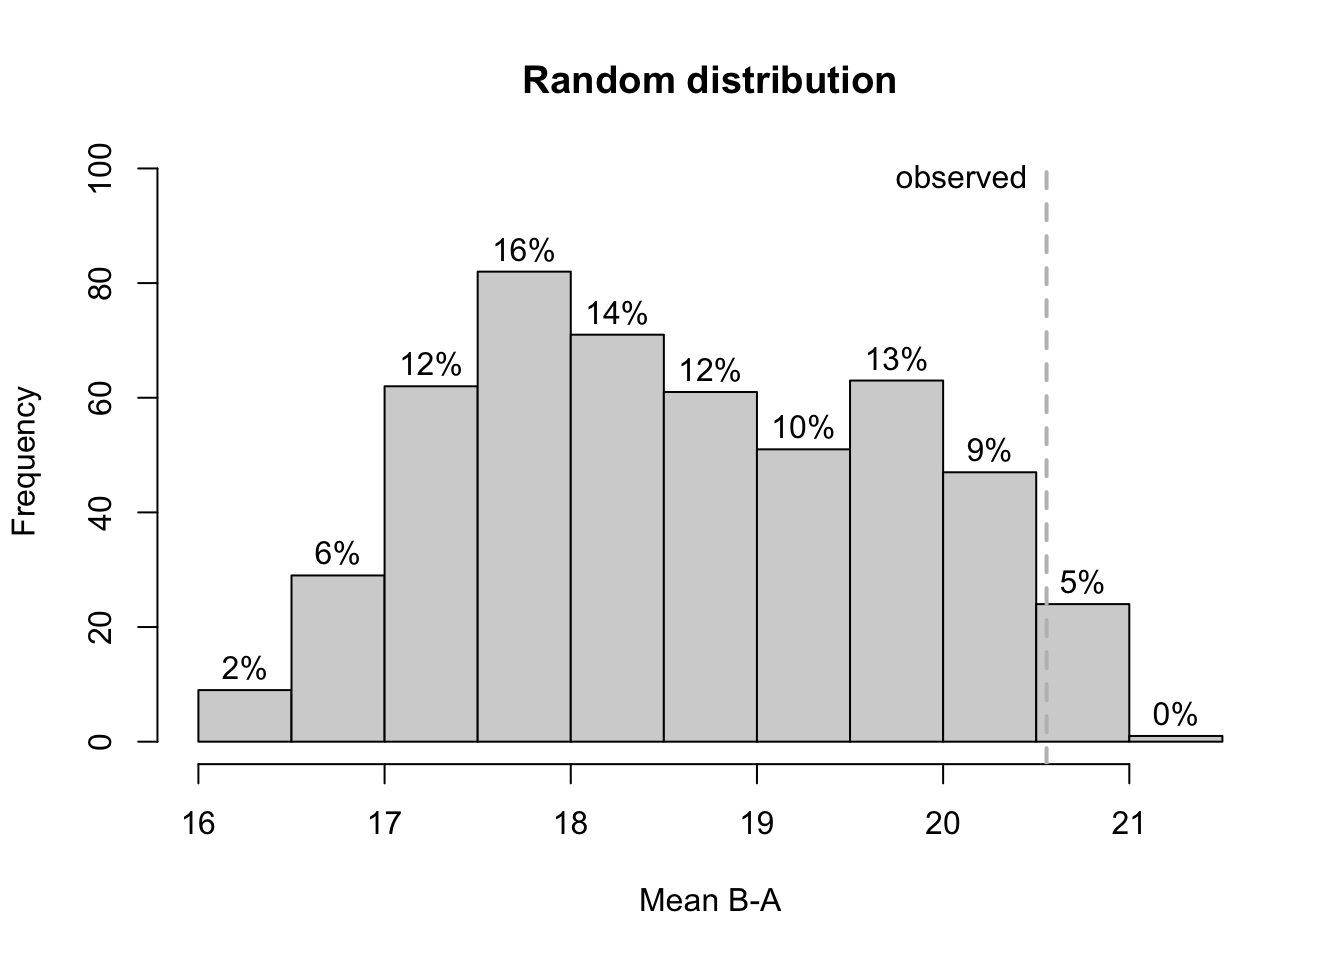
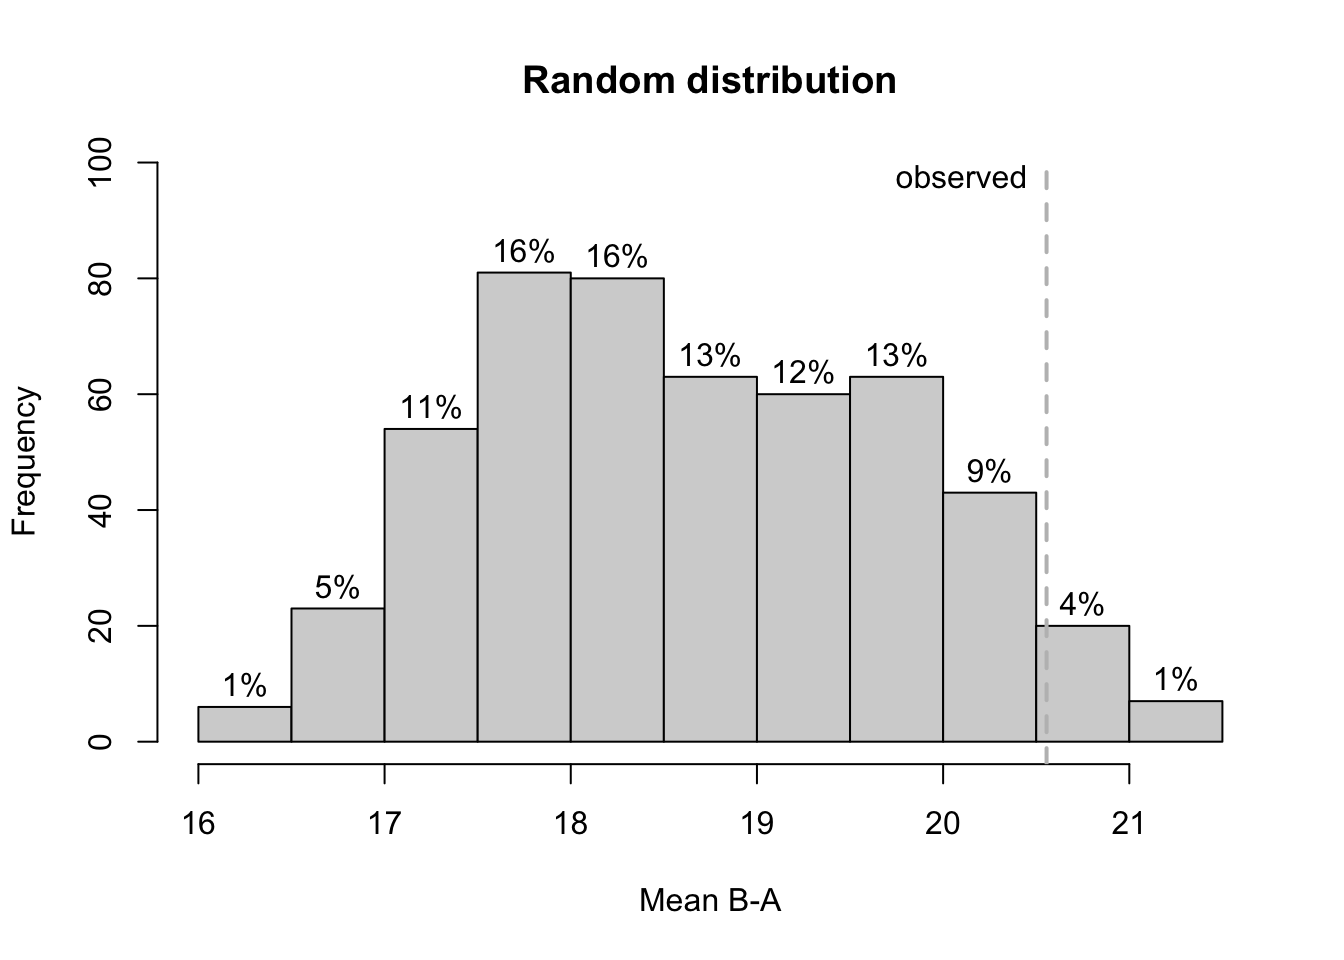
upd

diff --git a/docs/ch_piecewise_regression.html b/docs/ch_piecewise_regression.html
@@ -354,7 +354,7 @@ div.csl-indent {
   <li><a href="#the-slope-level-and-trend-arguments" id="toc-the-slope-level-and-trend-arguments" class="nav-link" data-scroll-target="#the-slope-level-and-trend-arguments"><span class="header-section-number">9.2.1</span> The <code>slope</code>, <code>level</code>, and <code>trend</code> arguments</a></li>
   </ul></li>
   <li><a href="#adding-additional-predictors" id="toc-adding-additional-predictors" class="nav-link" data-scroll-target="#adding-additional-predictors"><span class="header-section-number">9.3</span> Adding additional predictors</a></li>
-  <li><a href="#dummy-models" id="toc-dummy-models" class="nav-link" data-scroll-target="#dummy-models"><span class="header-section-number">9.4</span> Dummy models</a></li>
+  <li><a href="#sec-dummy-model" id="toc-sec-dummy-model" class="nav-link" data-scroll-target="#sec-dummy-model"><span class="header-section-number">9.4</span> Dummy models</a></li>
   <li><a href="#designs-with-more-than-two-phases-setting-the-right-contrasts" id="toc-designs-with-more-than-two-phases-setting-the-right-contrasts" class="nav-link" data-scroll-target="#designs-with-more-than-two-phases-setting-the-right-contrasts"><span class="header-section-number">9.5</span> Designs with more than two phases: Setting the right contrasts</a></li>
   <li><a href="#understanding-and-interpreting-contrasts" id="toc-understanding-and-interpreting-contrasts" class="nav-link" data-scroll-target="#understanding-and-interpreting-contrasts"><span class="header-section-number">9.6</span> Understanding and interpreting contrasts</a>
   <ul class="collapse">
@@ -477,8 +477,8 @@ Formula: values ~ 1 + mt + phaseB + interB</code></pre>
 </div>
 </div>
 <p>The output shows the specific contrast settings for the phase and slope calculation (see below for a detailed explanation). Next, the overall model fit is provided. In this specific example the model fit is quite high explaining more than 80% of the variance of the dependent variable. The following regression table shows the unstandardised estimates (B), the lower and upper boundaries of a 95% confidence interval, the standard-error, the t-test statistic, the p-value, and the delta R squared for each predictor.</p>
-<p>In this example, the intercept is the score estimation at the beginning of the study (here: at the first session, see <a href="#fig-plm-ex-1">Figure&nbsp;<span>9.2</span></a>). The trend effect (variable mt) is 0.100. That is, the score increased 0.100 with each measurement-time. As this example has a total of 20 measurements, the overall increase due to the trend is <span class="math inline">\(19 * 0.100 = 1.9\)</span> points. The level effect (variable phase with level B) is 7.858. That is, all measurements of phase B are increase by 7.858 points. The slope effect (for phase B) is 1.525. That is, with each measurement following the first measurement of phase B, the score increases by 1.525. As this example has 15 phase B measurements, the total increase due to the slope Effect is <span class="math inline">\(14 * 1.525 = 21.35\)</span> points.</p>
-<p>Based on these values, each data-point can be estimated. For example, the last measurement (<span class="math inline">\(i=20\)</span>) is estimated with <span class="math inline">\(54.400 + 19 * 0.100 + 7.858 + 14 * 1.525 = 85.508\)</span>.</p>
+<p>In this example, the intercept is the score estimation at the beginning of the study (here: at the first session, see <a href="#fig-plm-ex-1">Figure&nbsp;<span>9.2</span></a>). The trend effect (variable <em>mt</em>) is 0.100. This means that for every one point increase in measurement-time, the score increased by 0.100. As this example has a total of 20 sessions, the overall increase due to the trend is <span class="math inline">\(19 * 0.100 = 1.9\)</span> points. The level effect (variable <em>phase</em> with level B) is 7.858. This means that all scores of phase B are increased by 7.858 points. The slope effect (for phase B) is 1.525. This means that for every one point increase in measurement time after the first phase B session, the score increases by 1.525. As there are 15 Phase B sessions in this example, the total increase due to the slope effect is <span class="math inline">\(14 * 1.525 = 21.35\)</span> points.</p>
+<p>From these values each data point can be estimated. For example, the last session (<span class="math inline">\(i=20\)</span>) is estimated to be <span class="math inline">\(54.400 + 19 * 0.100 + 7.858 + 14 * 1.525 = 85.508\)</span>.</p>
 <div class="cell">
 <div class="sourceCode cell-code" id="cb3"><pre class="sourceCode r code-with-copy"><code class="sourceCode r"><span id="cb3-1"><a href="#cb3-1" aria-hidden="true" tabindex="-1"></a><span class="fu">scplot</span>(exampleAB<span class="sc">$</span>Johanna) <span class="sc">|&gt;</span> <span class="fu">add_statline</span>(<span class="st">"trend"</span>)</span></code><button title="Copy to Clipboard" class="code-copy-button"><i class="bi"></i></button></pre></div>
 <div class="cell-output-display">
@@ -555,7 +555,7 @@ Autocorrelations of the residuals
 Formula: values ~ 1 + mt + phaseB</code></pre>
 </div>
 </div>
-<p>In the resulting estimations the trend and level effects are now significant. The model estimated a trend effect of 1.01 points per measurement time and a level effect of 10.33 points. That is, with the beginning of the intervention (the B-phase) the score increases by 15.38 points (5 x 1.01 + 10.33).</p>
+<p>In the resulting estimations the trend and level effects are now significant. The model estimated a trend effect of 1.01 points for every one point increase in measurement-time and a level effect of 10.33 points. That is, with the beginning of the intervention (the B-phase) the score increases by <span class="math inline">\(5 x 1.01 + 10.33 = 15.38\)</span> points (the measurement-time is increases by five, from one to six, at the first session of phase B).</p>
 </section>
 </section>
 <section id="adding-additional-predictors" class="level2" data-number="9.3">
@@ -599,8 +599,8 @@ The formula has two parts divided by a tilde. Left of the tilde is the variable 
 
 -->
 </section>
-<section id="dummy-models" class="level2" data-number="9.4">
-<h2 data-number="9.4" class="anchored" data-anchor-id="dummy-models"><span class="header-section-number">9.4</span> Dummy models</h2>
+<section id="sec-dummy-model" class="level2" data-number="9.4">
+<h2 data-number="9.4" class="anchored" data-anchor-id="sec-dummy-model"><span class="header-section-number">9.4</span> Dummy models</h2>
 <p>The <code>model</code> argument is used to code the <em>dummy variables</em>. These <em>dummy variables</em> are used to compute the slope and level effects of the <em>phase</em> variable.<br>
 The <em>phase</em> variable is categorical, identifying the phase of each measurement. Typically, categorical variables are implemented by means of dummy variables. In a piecewise regression model two phase effects have to be estimated: a level effect and a slope effect. The level effect is implemented quite straight forward: for each phase beginning with the second phase a new dummy variable is created with values of zero for all measurements except the measurements of the phase in focus where values of one are set.</p>
 <div class="cell">
@@ -676,7 +676,7 @@ The <em>phase</em> variable is categorical, identifying the phase of each measur
 </div>
 </div>
 <p>For estimating the <em>slope effect</em> of each phase, another kind of dummy variables have to be created. Like the dummy variables for level effects the values are set to zero for all measurements except the ones of the phase in focus. Here, values start to increase with every measurement until the end of the phase.<br>
-Various suggestions have been made regarding the way in which these values increase <span class="citation" data-cites="huitema_design_2000">(see <a href="references.html#ref-huitema_design_2000" role="doc-biblioref">Huitema &amp; Mckean, 2000</a>)</span>. The <em>B&amp;L-B</em> model starts with a one at the first measurement of the phase and increases with every measurement while the <em>H-M</em> model starts with a zero.</p>
+Various suggestions have been made regarding the way in which these values increase <span class="citation" data-cites="huitema_design_2000">(see <a href="references.html#ref-huitema_design_2000" role="doc-biblioref">Huitema &amp; Mckean, 2000</a>)</span>. The <em>B&amp;L-B</em> model starts with a one at the first session of the phase and increases with every session while the <em>H-M</em> model starts with a zero.</p>
 <div class="cell">
 <div class="cell-output-display">
 <table class="lightable-classic table table-sm table-striped small" data-quarto-postprocess="true">
@@ -783,8 +783,8 @@ slope B
 
 </div>
 </div>
-<p>Applying the <em>H-M</em> model will give you a “pure” level-effect while the <em>B&amp;L-B</em> model will provide an estimation of the level-effect that is actually the level-effect plus on times the slope-effect (as the the model assumes that the slope variable is <em>1</em> at the first measurement of the B-phase). For most studies, the <em>H-M</em> model is more appropriate.</p>
-<p>Still, we have to be aware of another aspect. Usually, measurement-times in single-case designs are coded as starting with <em>1</em> and increasing in integers (e.g., 1, 2, 3, …). At the same time, the estimation of the trend-effect is based on the measurement-time variable. In that case, the estimation of the model intercept (usually interpreted as the value at the start of the study) actually depicts the estimation of the start value plus one times the trend-effect. Therefore, I implemented the <em>W</em> model (since scan version <code>0.54.4</code>). Here, the trend-effect is estimated for a measurement-time variable that starts with <em>0</em>. As a result the intercept will then represent the estimated value at the first measurement fo the study. The <em>W</em> model handles the slope estimation the same way as the <em>H-M</em> model. Since scan version <code>0.54.4</code> the <em>W</em> model is the default.</p>
+<p>Applying the <em>H-M</em> model will give you a “pure” level-effect while the <em>B&amp;L-B</em> model will provide an estimation of the level-effect that is actually the level-effect plus on times the slope-effect (as the model assumes that the slope variable is <em>1</em> at the first measurement of the B-phase). For most studies, the <em>H-M</em> model is more appropriate.</p>
+<p>However, there is another aspect to be aware of. Usually, in single case designs, the measurement times are coded as starting with <em>1</em> and increasing in integers (1, 2, 3, …). At the same time, the estimation of the trend effect is based on the measurement time variable. In this case, the estimate of the model intercept (usually interpreted as the value at the beginning of the study) actually represents the estimate of the starting value plus one times the trend effect. Therefore, I have implemented the <em>W</em> model (since scan version <code>0.54.4</code>). Here the trend effect is estimated for a time variable shifted to start at <em>0</em>. As a result, the intercept represents the estimated value at the first measurement of the study. The <em>W</em> model treats slope estimation in the same way as the <em>H-M</em> model. That is, the measurement-time for calculating the slope effect is set to <em>0</em> for the first session of each phase. Since scan version <code>0.54.4</code> the <em>W</em> model is the default.</p>
 <div class="cell">
 <div class="cell-output-display">
 <table class="lightable-classic table table-sm table-striped small" data-quarto-postprocess="true">
@@ -908,9 +908,9 @@ slope
 </section>
 <section id="designs-with-more-than-two-phases-setting-the-right-contrasts" class="level2" data-number="9.5">
 <h2 data-number="9.5" class="anchored" data-anchor-id="designs-with-more-than-two-phases-setting-the-right-contrasts"><span class="header-section-number">9.5</span> Designs with more than two phases: Setting the right contrasts</h2>
-<p>With single-case studies with more than two phases it gets a bit more complicated. Applying the models described above to three phases would result in a comparison between each phase and the first phase (usually phase A). That is, the regression weights and significance tests indicate the differences between each phase and the phase A values. Another common use is to compare the effects of one phase with the preceding phase.</p>
-<p>Since scan version <code>0.54.4</code> plm allows to set a contrast argument. <code>contrast = "first"</code> (the default) will compare all slope and level-effects to the values in the first phase. <code>contrast = "preceding"</code> will compare the slope and level-effects to the preceding phase.</p>
-<p>For the <em>preceding contrast</em>, the dummy variable for the level-effect is set to zero for all phases preceding the phase in focus and set to one for all remaining measurements. Similar, the dummy variable for the slope-effect is set to zero for all phases preceding the one in focus and starts with one for the first measurement of the target phase and increases until the last measurement of the case.</p>
+<p>For single case studies with more than two phases, things get a bit more complicated. Applying the models described above to three phases would result in a comparison between each phase and the first phase (usually phase A). That is, the regression weights and significance tests indicate the differences between each phase and the values from phase A. Another common use is to compare the effects of a phase with the previous phase.</p>
+<p>As of scan version <code>0.54.4</code>, plm allows to set a contrast argument. <code>contrast = "first"</code> (the default) will compare all slope and level-effects to the values in the first phase. <code>contrast = "preceding"</code> will compare the slope and level-effects to the preceding phase.</p>
+<p>For the <em>preceding contrast</em>, the dummy variable for the level-effect is set to zero for all phases preceding the phase in focus and set to one for all remaining measurements. Similarly, the dummy variable for the slope-effect is set to zero for all phases preceding the phase in focus and starts at zero (or one, depending on the model setting, see <a href="#sec-dummy-model"><span>Section&nbsp;9.4</span></a>) for the first measurement of the target phase and increases until the last measurement of the case.</p>
 <p>You can set the contrast differently for the level and slope effects with the arguments <code>constrast_level</code> and <code>contrast_slope</code>. Both can be either <code>"first"</code> or <code>"preceding"</code>.</p>
 <p>(Note: Prior to scan version <code>0.54.4</code>, the option <code>model = "JW"</code> was identical to <code>model = "B&amp;L-B", contrast = "preceding"</code>).</p>
 <div class="cell">
@@ -1406,7 +1406,7 @@ Wilbert, J., Lüke, T., &amp; Börnert-Ringleb, M. (2022). Statistical power of 
 <section id="footnotes" class="footnotes footnotes-end-of-document" role="doc-endnotes">
 <hr>
 <ol>
-<li id="fn1"><p>The session is the ordinal number (1st, 2nd, 3rd, …) of the measurements. While the measurement time is often identical to the session number, this is not necessarily the case. The measurement time sometimes represents days since the start of the study or other intervals. Therefore, I refer to <em>session or session-number for the ordinal position of the measurement and measurement-time</em><a href="#fnref1" class="footnote-back" role="doc-backlink">↩</a></p></li>
+<li id="fn1"><p>The session is the ordinal number (1st, 2nd, 3rd, …) of the measurements. While the measurement-time (the value of the measurement-time variable at a specific session/ measurement) is often identical to the session number, this is not necessarily the case. The measurement-time sometimes represents days since the start of the study or other intervals. Therefore, I refer to <em>session</em> or <em>measurement</em> for the ordinal position of the measurement and <em>measurement-time</em> for the value of the time variable at that session number.<a href="#fnref1" class="footnote-back" role="doc-backlink">↩</a></p></li>
 <li id="fn2"><p>Differences here and in the following calculations are due to rounding errors.<a href="#fnref2" class="footnote-back" role="doc-backlink">↩</a></p></li>
 <li id="fn3"><p>The slope of phase A is the trend effect.<a href="#fnref3" class="footnote-back" role="doc-backlink">↩</a></p></li>
 </ol>

diff --git a/docs/ch_powertest.html b/docs/ch_powertest.html
@@ -489,9 +489,9 @@ The design function call
 <pre><code>Test-Power in percent:
 
     Method Power Alpha Error Alpha:Beta Correct
- plm_level    78           0      1:Inf      89
-      rand    72           8      1:3.5      82
-      tauU   100          24      1:0.0      88</code></pre>
+ plm_level    72           1     1:28.0      86
+      rand    71           5      1:5.8      83
+      tauU   100          18      1:0.0      91</code></pre>
 </div>
 </div>
 <p>The results show that the plm test and the randomization test have similar power and alpha-error probabilities (the differences here may be due to outliers of the random samples. A more intensive computation with 1000 simulations shows slightly better values for the plm). The tau U test has an unacceptably high alpha-error which is due to the trend we put into the design. <em>Alpha:Beta</em> depicts the relation of the Alpha and Beta error (power = 1 - Beta). <em>Correct</em> is the overall proportion of correct categorizations and <em>p</em> is the results of a binomial-test of <em>Correct</em> against 50%.</p>
@@ -589,13 +589,13 @@ The design function call
 <pre><code>Test-Power in percent:
 
     Method Power 2.5% 97.5% Alpha Error 2.5% 97.5% Alpha:Beta Correct 2.5%
- plm_level    68   58    77           2  0.2     7     1:16.0      83   77
-      rand    65   55    74           6  2.2    13      1:5.8      80   73
-      tauU   100   96   100          21 13.5    30      1:0.0      90   84
+ plm_level    76   66    84           5    2    11      1:4.8      86   80
+      rand    68   58    77           4    1    10      1:8.0      82   76
+      tauU   100   96   100          28   19    38      1:0.0      86   80
  97.5%
-    88
-    85
-    93</code></pre>
+    90
+    87
+    90</code></pre>
 </div>
 </div>
 <p>You can also test the power, alpha error, and correct estimates against predefined values. In order to do that, set <code>binom_test = TRUE</code>. The power will be tested against being greater or equal to 80%, the alpha error against being less or equal 5%, and the correct proportion against being greater equal 87.5%.</p>
@@ -605,13 +605,13 @@ The design function call
 <pre><code>Test-Power in percent:
 
     Method Power Alpha Error Alpha:Beta Correct p Power&gt;=80 p Alpha Error&lt;=5
- plm_level    68           6      1:5.3      81           1                1
-      rand    66          10      1:3.4      78           1                1
-      tauU   100          26      1:0.0      87           0                1
+ plm_level    75           4      1:6.2      86           1                0
+      rand    72           8      1:3.5      82           1                1
+      tauU   100          30      1:0.0      85           0                1
  p Correct&gt;=87.5
+             0.8
              1.0
-             1.0
-             0.6</code></pre>
+             0.9</code></pre>
 </div>
 </div>
 <p>If you want to define individual values for the three tests, set the <code>binom_test_power</code>. <code>binom_test_alpha</code>, and/or, the <code>binom_test_correct</code> arguments.</p>
@@ -670,9 +670,9 @@ The design function call
 <pre><code>Test-Power in percent:
 
     Method Power Alpha Error Alpha:Beta Correct
- plm_level    78           0      1:Inf      89
-      rand    72           8      1:3.5      82
-      tauU   100          24      1:0.0      88
+ plm_level    72           1     1:28.0      86
+      rand    71           5      1:5.8      83
+      tauU   100          18      1:0.0      91
 
 Computation duration is 0.9 seconds.</code></pre>
 </div>
@@ -686,13 +686,13 @@ Computation duration is 0.9 seconds.</code></pre>
 <span id="cb14-5"><a href="#cb14-5" aria-hidden="true" tabindex="-1"></a><span class="co"># Elapsed time in seconds for each procedure</span></span>
 <span id="cb14-6"><a href="#cb14-6" aria-hidden="true" tabindex="-1"></a><span class="fu">attr</span>(res1, <span class="st">"computation_duration"</span>)[<span class="dv">3</span>]</span>
 <span id="cb14-7"><a href="#cb14-7" aria-hidden="true" tabindex="-1"></a><span class="do">## elapsed </span></span>
-<span id="cb14-8"><a href="#cb14-8" aria-hidden="true" tabindex="-1"></a><span class="do">##   0.072</span></span>
+<span id="cb14-8"><a href="#cb14-8" aria-hidden="true" tabindex="-1"></a><span class="do">##   0.075</span></span>
 <span id="cb14-9"><a href="#cb14-9" aria-hidden="true" tabindex="-1"></a><span class="fu">attr</span>(res2, <span class="st">"computation_duration"</span>)[<span class="dv">3</span>]</span>
 <span id="cb14-10"><a href="#cb14-10" aria-hidden="true" tabindex="-1"></a><span class="do">## elapsed </span></span>
-<span id="cb14-11"><a href="#cb14-11" aria-hidden="true" tabindex="-1"></a><span class="do">##    0.23</span></span>
+<span id="cb14-11"><a href="#cb14-11" aria-hidden="true" tabindex="-1"></a><span class="do">##   0.233</span></span>
 <span id="cb14-12"><a href="#cb14-12" aria-hidden="true" tabindex="-1"></a><span class="fu">attr</span>(res3, <span class="st">"computation_duration"</span>)[<span class="dv">3</span>]</span>
 <span id="cb14-13"><a href="#cb14-13" aria-hidden="true" tabindex="-1"></a><span class="do">## elapsed </span></span>
-<span id="cb14-14"><a href="#cb14-14" aria-hidden="true" tabindex="-1"></a><span class="do">##   0.472</span></span></code><button title="Copy to Clipboard" class="code-copy-button"><i class="bi"></i></button></pre></div>
+<span id="cb14-14"><a href="#cb14-14" aria-hidden="true" tabindex="-1"></a><span class="do">##   0.481</span></span></code><button title="Copy to Clipboard" class="code-copy-button"><i class="bi"></i></button></pre></div>
 </div>
 <p>… and what about our new fast-glm function?</p>
 <div class="cell">
@@ -711,7 +711,7 @@ Computation duration is 0.9 seconds.</code></pre>
 <span id="cb15-13"><a href="#cb15-13" aria-hidden="true" tabindex="-1"></a><span class="fu">attr</span>(res1, <span class="st">"computation_duration"</span>)[<span class="dv">3</span>]</span></code><button title="Copy to Clipboard" class="code-copy-button"><i class="bi"></i></button></pre></div>
 <div class="cell-output cell-output-stdout">
 <pre><code>elapsed 
-  0.115 </code></pre>
+  0.212 </code></pre>
 </div>
 <div class="sourceCode cell-code" id="cb17"><pre class="sourceCode r code-with-copy"><code class="sourceCode r"><span id="cb17-1"><a href="#cb17-1" aria-hidden="true" tabindex="-1"></a><span class="fu">attr</span>(res2, <span class="st">"computation_duration"</span>)[<span class="dv">3</span>]</span></code><button title="Copy to Clipboard" class="code-copy-button"><i class="bi"></i></button></pre></div>
 <div class="cell-output cell-output-stdout">

diff --git a/docs/index.html b/docs/index.html
@@ -342,7 +342,7 @@ div.csl-indent {
 
 </header>
 
-<p><strong><em>Version 23.06 (build 5)</em></strong></p>
+<p><strong><em>Version 23.06 (build 6)</em></strong></p>
 <section id="preface" class="level1 unnumbered">
 <h1 class="unnumbered">Preface</h1>
 <p>Hello everyone!</p>
@@ -350,7 +350,7 @@ div.csl-indent {
 If you have any suggestions on how to improve the book, or want to report bugs, comments, feedback, etc., go to the gitHub repository of this book and contribute here <a href="https://github.com/jazznbass/scan-Book/discussions" class="uri">https://github.com/jazznbass/scan-Book/discussions</a>.</p>
 <p>Thank you very much!</p>
 <p>Jürgen</p>
-<p>21 May 2023</p>
+<p>22 May 2023</p>
 <section id="general-references" class="level2 unnumbered">
 <h2 class="unnumbered anchored" data-anchor-id="general-references">General references</h2>
 <p>This book has been created using <a href="https://quarto.org/"><code>Quarto</code></a> within the RStudio <span class="citation" data-cites="RStudio">(<a href="references.html#ref-RStudio" role="doc-biblioref">RStudio Team, 2018</a>)</span> environment. The analyses have been conducted with the <strong>R</strong> package <code>scan</code> at version 0.57.9 <span class="citation" data-cites="R-scan">(<a href="references.html#ref-R-scan" role="doc-biblioref">Wilbert &amp; Lueke, 2023</a>)</span> and <code>scplot</code> at version 0.3.1 <span class="citation" data-cites="R-scplot">(<a href="references.html#ref-R-scplot" role="doc-biblioref">Wilbert, 2023</a>)</span>. R version 4.3.0 (2023-04-21) was used <span class="citation" data-cites="R-base">(<a href="references.html#ref-R-base" role="doc-biblioref">R Core Team, 2023</a>)</span>.</p>

diff --git a/docs/ch_randomization_test.html b/docs/ch_randomization_test.html
@@ -442,18 +442,18 @@ Observed statistic =  20.55556
 
 Distribution based on a random sample of all 1331 possible combinations.
 n   =  500 
-M   =  18.56647 
-SD  =  1.168467 
-Min =  16.15873 
+M   =  18.65146 
+SD  =  1.131551 
+Min =  16.06667 
 Max =  21.34493 
 
 Probability of observed statistic based on distribution:
-p   =  0.036 
+p   =  0.046 
 
-Shapiro-Wilk Normality Test: W = 0.973; p = 0.000  (Hypothesis of normality rejected)
+Shapiro-Wilk Normality Test: W = 0.980; p = 0.000  (Hypothesis of normality rejected)
 
 Probabilty of observed statistic based on the assumption of normality:
-z = 1.7023, p = 0.0443 (single sided)</code></pre>
+z = 1.6827, p = 0.0462 (single sided)</code></pre>
 </div>
 </div>
 
